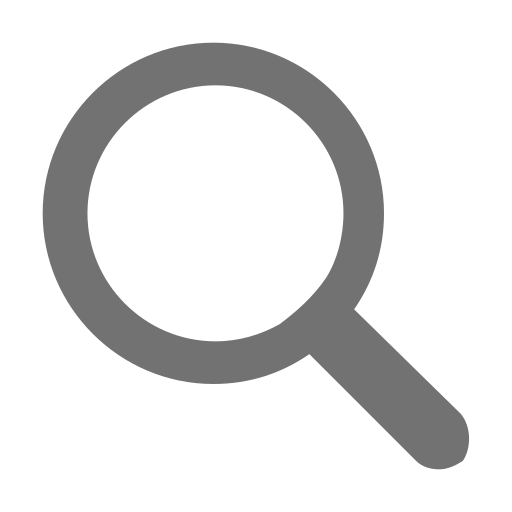
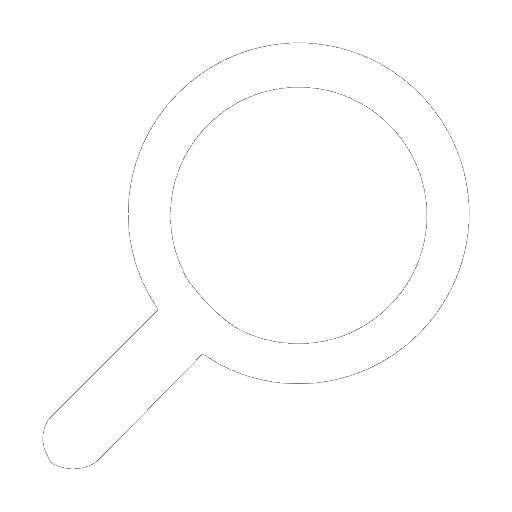
-CSS styles changed

Changed region(s): [[0.0625, 0.0625, 0.9375, 0.9375], [0.1875, 0.875, 0.2188, 0.9062]]

diff --git a/loja_brinquedos/styles.css b/loja_brinquedos/styles.css
@@ -299,7 +299,6 @@
     width: 100%;
     max-width: 400px;
     padding: 10px 15px;
-    border: 2px solid #ff7043;
     border-right: none;
     border-radius: 20px 0 0 20px;
     outline: none;
@@ -308,7 +307,7 @@
 }
 
 .search-form input[type="text"]:focus {
-    border-color: #ffb74d;
+    border-color: #ff975e;
     box-shadow: 0 0 5px rgba(255, 183, 77, 0.5);
 }
 
@@ -321,11 +320,11 @@
     cursor: pointer;
     transition: background-color 0.3s ease;
     position: relative;
-    left: -10px;
+    left: 0px;
 }
 
 .search-button:hover {
-    background-color: #e65100;
+    background-color: #ff975e;
 }
 
 .search-button img {
@@ -1010,7 +1009,7 @@
 /* Estilos para os filtros de categoria */
 .category-filters {
     position: sticky; /* Faz o elemento "grudar" na posição */
-    top: 70px; /* Define a distância do topo da tela. Ajuste este valor se a altura do seu cabeçalho for diferente. */
+    top: 73px; /* Define a distância do topo da tela. Ajuste este valor se a altura do seu cabeçalho for diferente. */
     z-index: 10; /* Garante que a barra de filtros fique acima do conteúdo da página ao rolar */
     
     /* Demais estilos que já existem */
@@ -1040,15 +1039,15 @@
 }
 
 .category-btn.active {
-    background-color: #007bff;
+    background-color: #ff2828;
     color: #fff;
-    border-color: #007bff;
+    border-color: #ff2828;
     font-weight: bold;
 }
 
 .category-btn.active:hover {
-    background-color: #0069d9;
-    border-color: #0062cc;
+    background-color: #c41c1c;
+    border-color: #c41c1c;
 }
 /* Estilos para navegadores baseados em WebKit (Chrome, Safari, Edge) */
 ::-webkit-scrollbar {
@@ -1075,7 +1074,7 @@
 /* (Ainda não é tão flexível quanto o WebKit) */
 html {
     scrollbar-width: thin;
-    scrollbar-color: #888 #f1f1f1;
+    scrollbar-color: #e31837  #f1f1f1;
 }
 
 /* Estilos para o rodapé */
@@ -2547,7 +2546,7 @@ html {
 .search-form input[type="text"] {
     flex-grow: 1;
     padding: 10px 15px;
-    border: 2px solid var(--secondary-color);
+    border: 3px solid var(--secondary-color);
     border-right: none;
     border-radius: 25px 0 0 25px;
     outline: none;
@@ -2562,8 +2561,12 @@ html {
     border-radius: 0 25px 25px 0;
     cursor: pointer;
     transition: background-color 0.3s ease;
+    width: 50px;
+    height: 43px;
 }
-
+.search-form input[type="text"]::placeholder {
+    color: #000;
+}
 .search-button img {
     filter: invert(1);
     display: block;

diff --git a/loja_brinquedos/loja.php b/loja_brinquedos/loja.php
@@ -465,6 +465,10 @@ if (isset($_SESSION['user_codigo'])) {
                         <button id="buscar-cep-btn" class="button-modal">Buscar</button>
                     </div>
                     <div id="cep-manual-status" class="status-message"></div>
+                    <br>
+                    <div id="find-cep">
+                        <a href="https://buscacepinter.correios.com.br/app/endereco/index.php?t">Não sei meu CEP.</a>
+                    </div>
                 </div>
 
                 <div class="option-separator">
@@ -901,7 +905,7 @@ document.addEventListener('DOMContentLoaded', function() {
         showSlide(currentSlide);
     }
     
-    setInterval(nextSlide, 3000); // Troca de slide a cada 3 segundos
+    setInterval(nextSlide, 4500); // Troca de slide a cada 4,5 segundos
     
     showSlide(currentSlide); // Inicia o slideshow
 });
